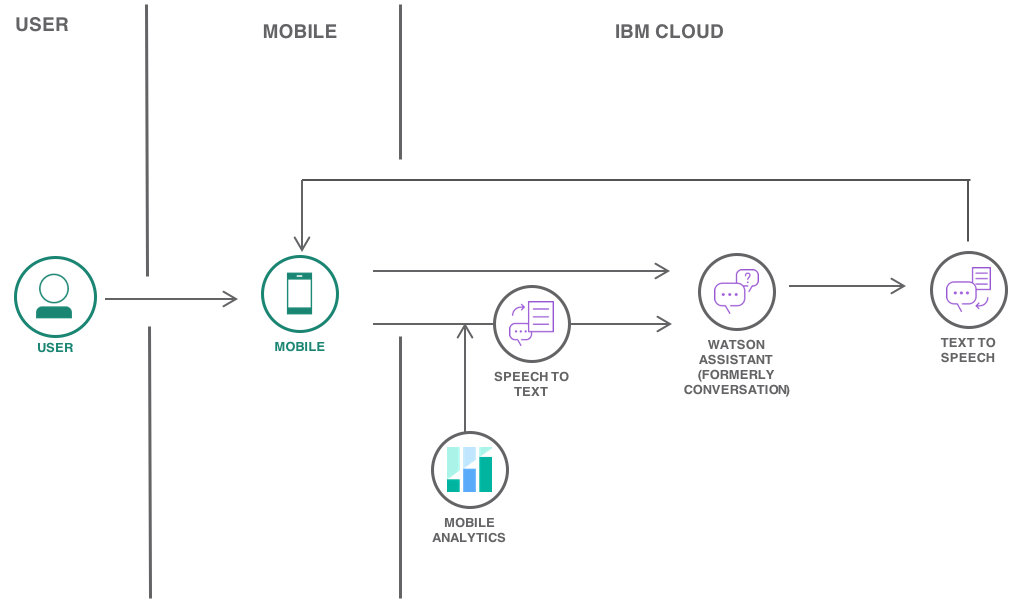
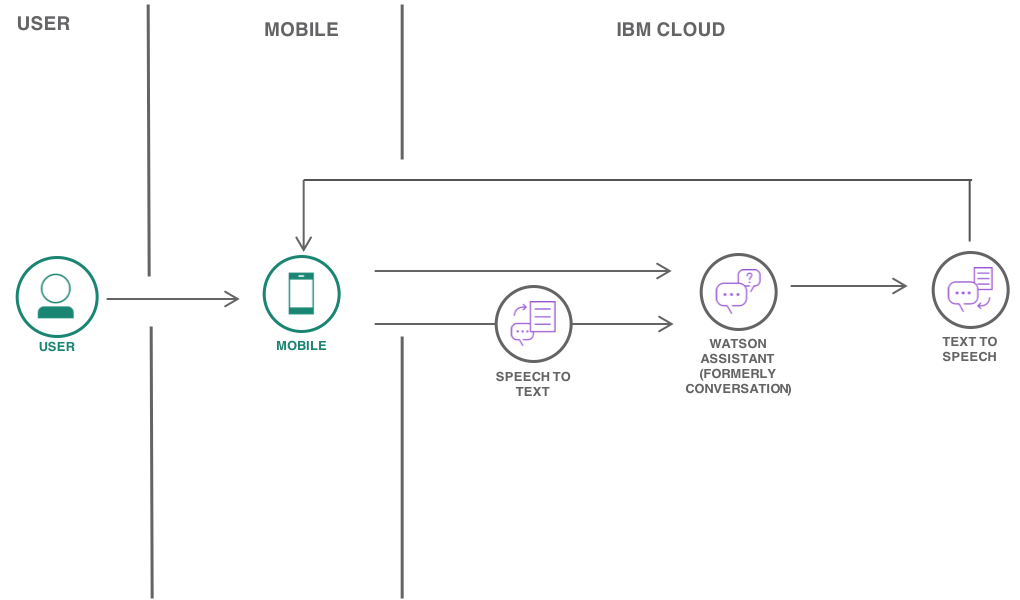
Removed mobile analytics from android chatbot

diff --git a/android-watson-chatbot.md b/android-watson-chatbot.md
@@ -1,7 +1,7 @@
 ---
 copyright:
   years: 2018
-lastupdated: "2018-04-17"
+lastupdated: "2018-10-01"
 ---
 
 {:java: #java .ph data-hd-programlang='java'}
@@ -17,18 +17,17 @@ lastupdated: "2018-04-17"
 
 # Build a voice-enabled Android chatbot
 
-Learn how easy it is to quickly create a voice-enabled Android-native chatbot with {{site.data.keyword.conversationshort}}, {{site.data.keyword.texttospeechshort}}, {{site.data.keyword.speechtotextshort}} and mobile analytics services on {{site.data.keyword.Bluemix_short}}.
+Learn how easy it is to quickly create a voice-enabled Android-native chatbot with {{site.data.keyword.conversationshort}}, {{site.data.keyword.texttospeechshort}} and {{site.data.keyword.speechtotextshort}} services on {{site.data.keyword.Bluemix_short}}.
 
-This tutorial walks you through the process of defining intents and entities and building a dialog flow for your chatbot to respond to customer queries. You will learn how to enable {{site.data.keyword.speechtotextshort}} and {{site.data.keyword.texttospeechshort}} services for easy interaction with the Android app. Also, track the app's usage metrics through {{site.data.keyword.mobileanalytics_short}} service.
+This tutorial walks you through the process of defining intents and entities and building a dialog flow for your chatbot to respond to customer queries. You will learn how to enable {{site.data.keyword.speechtotextshort}} and {{site.data.keyword.texttospeechshort}} services for easy interaction with the Android app.
 {:shortdesc}
 
 ## Objectives
 {: #objectives}
 
-- Create a chatbot: create a workspace, define an intent and entity, build the dialog flow
-- Allow end users to interact with chatbot using voice and audio
-- Configure and run the Android app
-- Add {{site.data.keyword.mobileanalytics_short}} to track usage
+- Create a chatbot: create a workspace, define an intent and entity, build the dialog flow.
+- Allow end users to interact with chatbot using voice and audio.
+- Configure and run the Android app.
 
 ## Services used
 {: #services}
@@ -38,7 +37,6 @@ This tutorial uses the following products:
 - [{{site.data.keyword.conversationfull}}](https://console.bluemix.net/catalog/services/watson-assistant-formerly-conversation)
 - [{{site.data.keyword.speechtotextfull}}](https://console.bluemix.net/catalog/services/speech-to-text)
 - [{{site.data.keyword.texttospeechfull}}](https://console.bluemix.net/catalog/services/text-to-speech)
-- [{{site.data.keyword.mobileanalytics_full}}](https://console.bluemix.net/catalog/services/mobile-analytics)
 
 ## Architecture
 {: #architecture}
@@ -186,22 +184,6 @@ The repository contains Android application code with required gradle dependenci
    ![](images/solution28-watson-chatbot-android/android_studio.png)
 8. Click the **mic** icon in the left bottom corner of the app to input speech that gets converted to text and then can be sent to {{site.data.keyword.conversationshort}} service by clicking the arrow icon.
 
-## Add {{site.data.keyword.mobileanalytics_short}} to track usage
-{:#mobile_analytics}
-
-The {{site.data.keyword.mobileanalytics_short}} service provides key application usage and performance insights for mobile application developers and application owners. By using {{site.data.keyword.mobileanalytics_short}} application owners and developers can understand what is happening on the user side, and they can use this insight to build better applications that are relevant to users and that stand out in the veritable sea of mobile applications.
-
-The service includes the {{site.data.keyword.mobileanalytics_short}} Console where developers and application owners can monitor mobile application performance, see usage statistics, and search device logs.
-
-1. Go to the [**{{site.data.keyword.Bluemix_notm}} Catalog**](https://console.bluemix.net/catalog/) and select [{{site.data.keyword.mobileanalytics_short}}](https://console.bluemix.net/catalog/services/mobile-analytics) service > **Lite** plan under **Mobile**. Click **Create**.
-2. Click **Service credentials** on the left pane and click **New credential** to add a new credential.
-3. Click **View Credentials** to see the credentials and copy the `apiKey` value.
-4. In Android studio, open `app/src/main/res/values/config.xml` and update the `mobileanalytics_apikey` string value.
-5. On line 106 of `app/src/main/java/com/example/vmac/WatBot/MainActivity.java`, change the BMSClient region to the region in which the {{site.data.keyword.mobileanalytics_short}} service is created.
-6. Build and run the Android chatbot app.
-7. Click **Manage** in the {{site.data.keyword.mobileanalytics_short}} service dashboard to see Users, Sessions, Troubleshooting and other App Data.
-   ![](images/solution28-watson-chatbot-android/mobile_analytics.png)
-
 
 ## Remove resources
 {:removeresources}
@@ -214,7 +196,6 @@ The service includes the {{site.data.keyword.mobileanalytics_short}} Console whe
 {:related}
 
 - [Creating entities, Synonyms, System entities](https://console.bluemix.net/docs/services/conversation/entities.html#creating-entities)
-- [Monitoring an Android app with Mobile Analytics](https://console.bluemix.net/docs/tutorials/android-mobile-push-analytics.html#monitoring-the-app-with-mobile-analytics-)
 - [Planning your Intents and Entities](https://console.bluemix.net/docs/services/conversation/intents-entities.html#planning-your-entities)
 - [Context Variables](https://console.bluemix.net/docs/services/conversation/dialog-runtime.html#context)
 - [Building a complex dialog](https://console.bluemix.net/docs/services/conversation/tutorial.html#tutorial)
